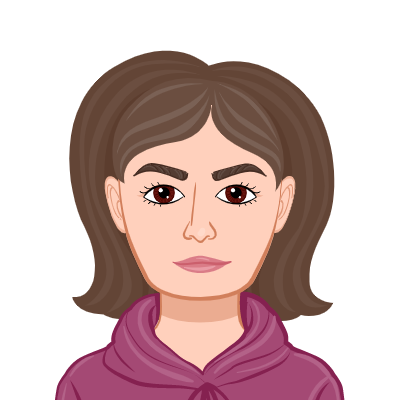
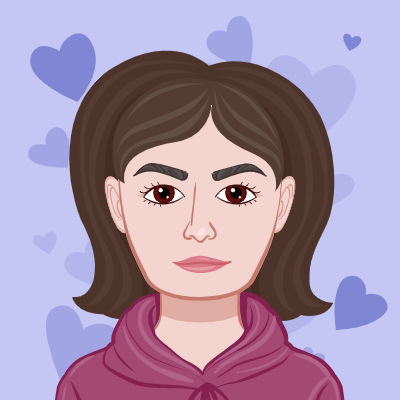
avatarkuvan muutos

diff --git a/infosivu.html b/infosivu.html
@@ -76,7 +76,7 @@
     </div>
     <div class="col-md-4">
       <div class="card" style="width: 18rem;">
-        <img src="..." class="card-img-top" alt="...">
+        <img src="images/Avatarit/Avatar_Enni.png" class="img-thumbnail" alt="...">
         <div class="card-body">
           <p class="card-text">Some quick example text to build on the card title and make up the bulk of the card's content.</p>
         </div>
